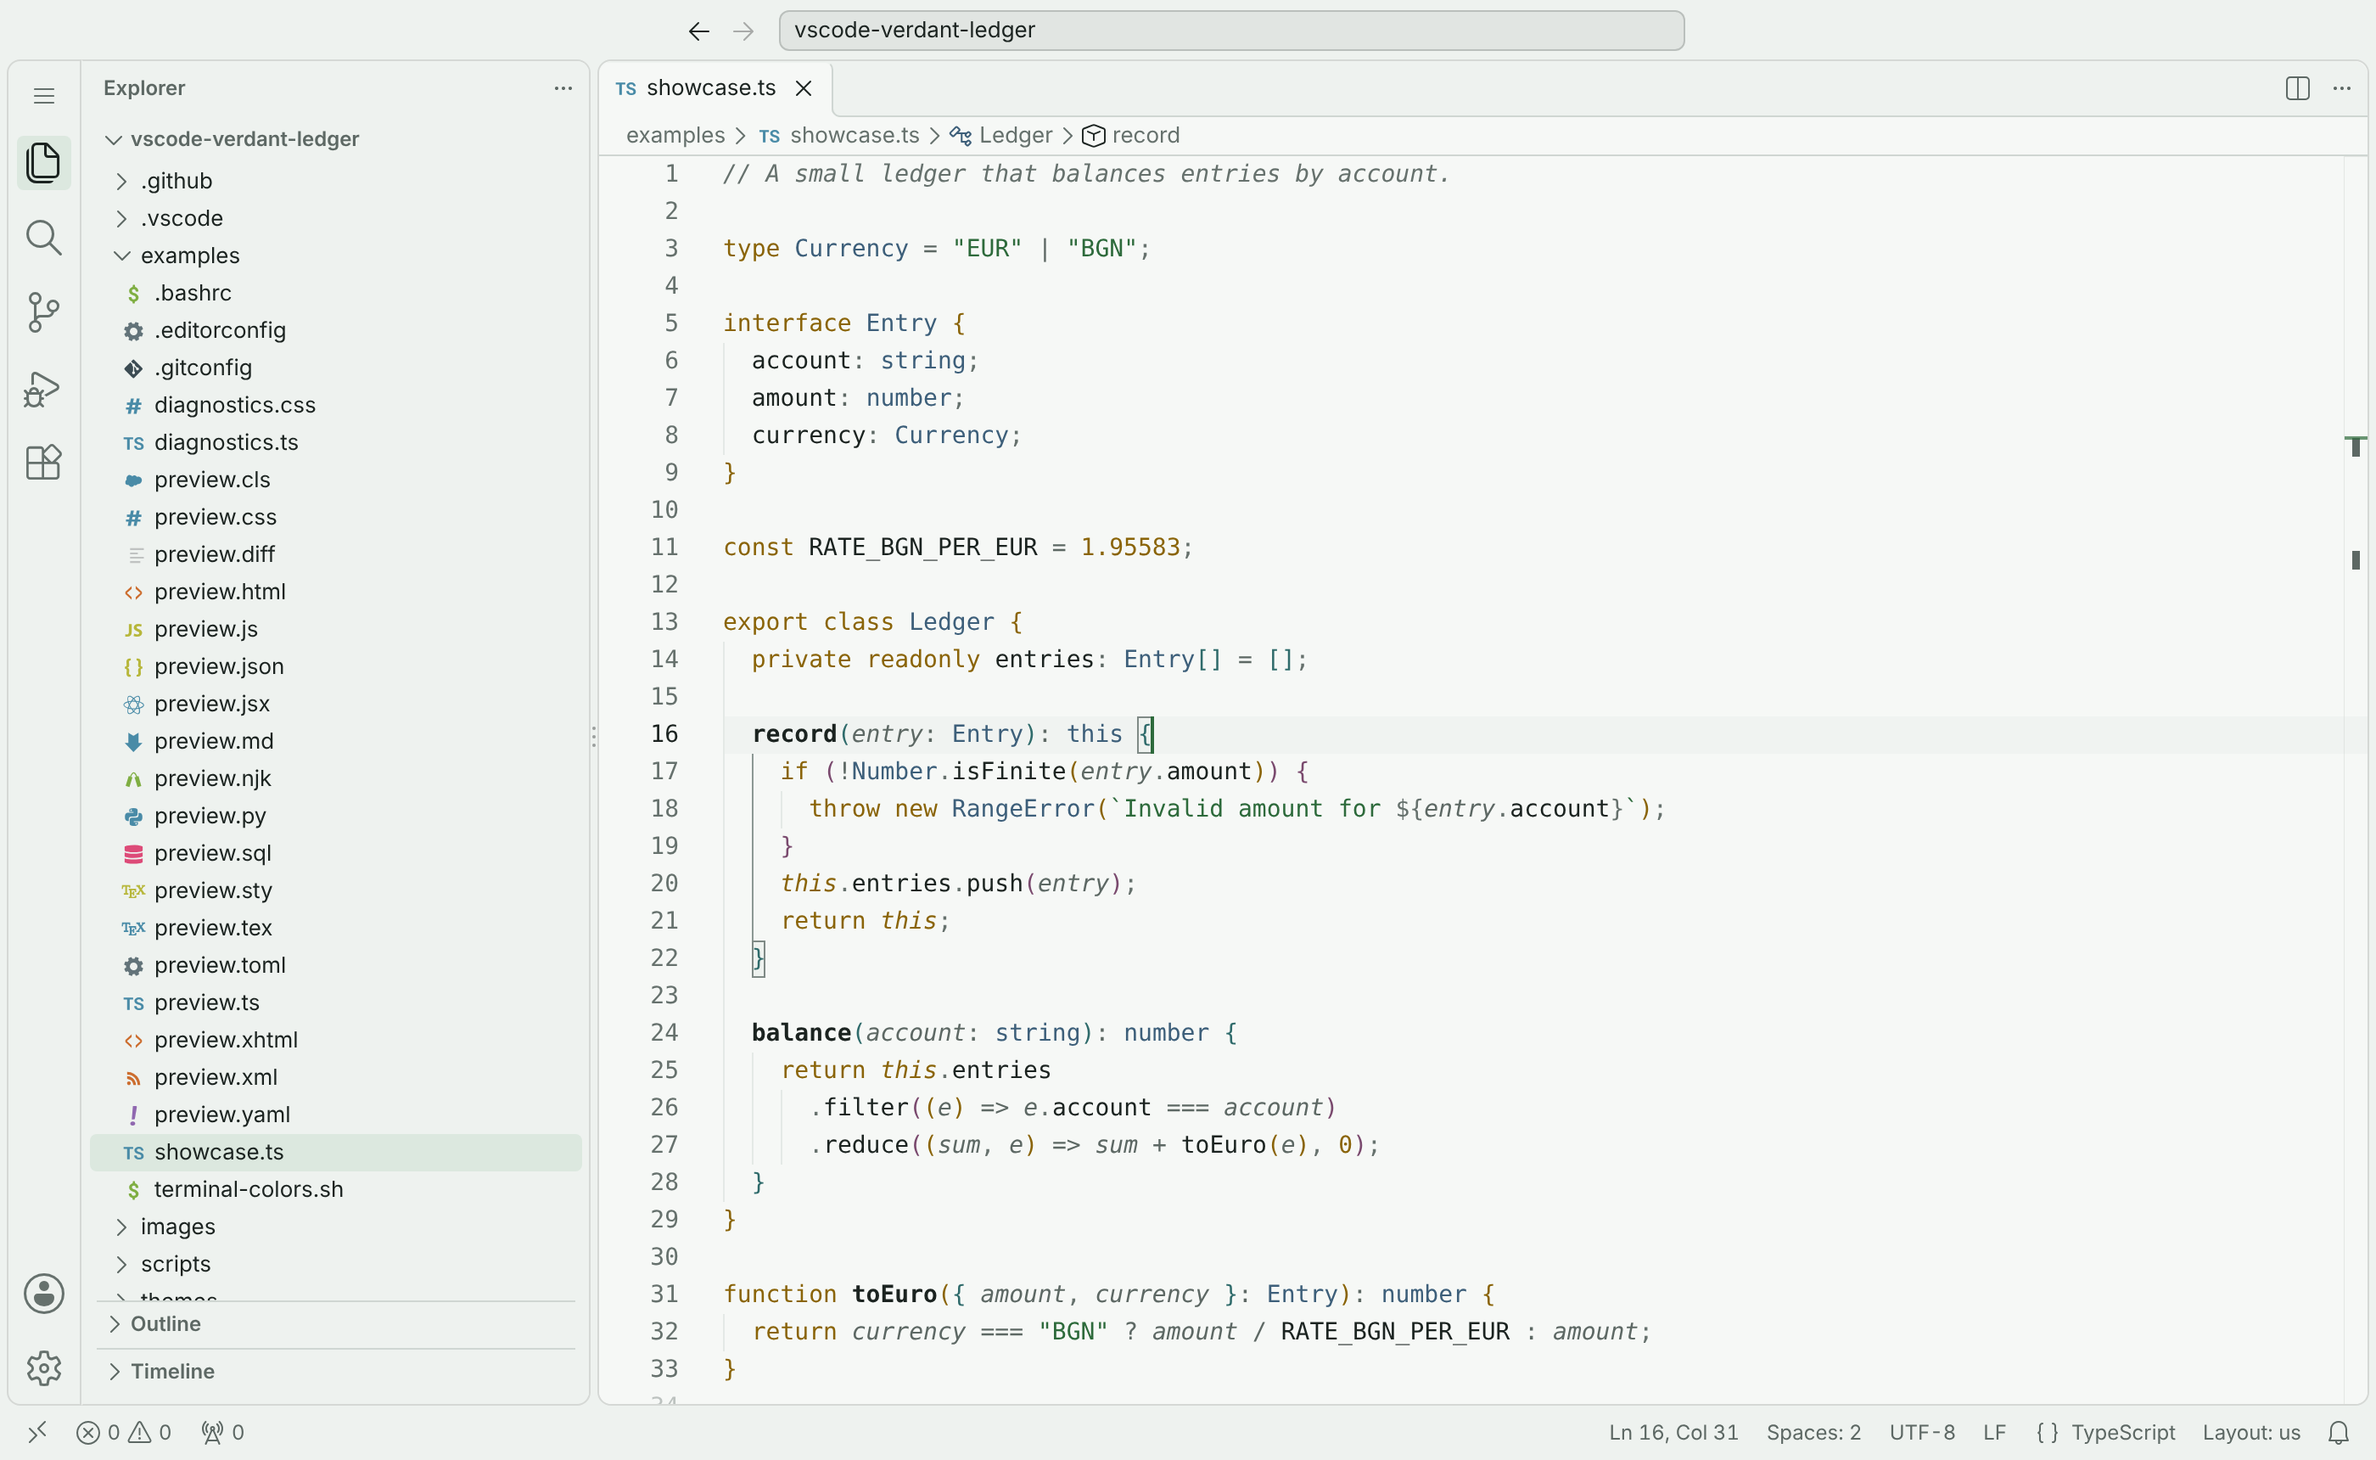
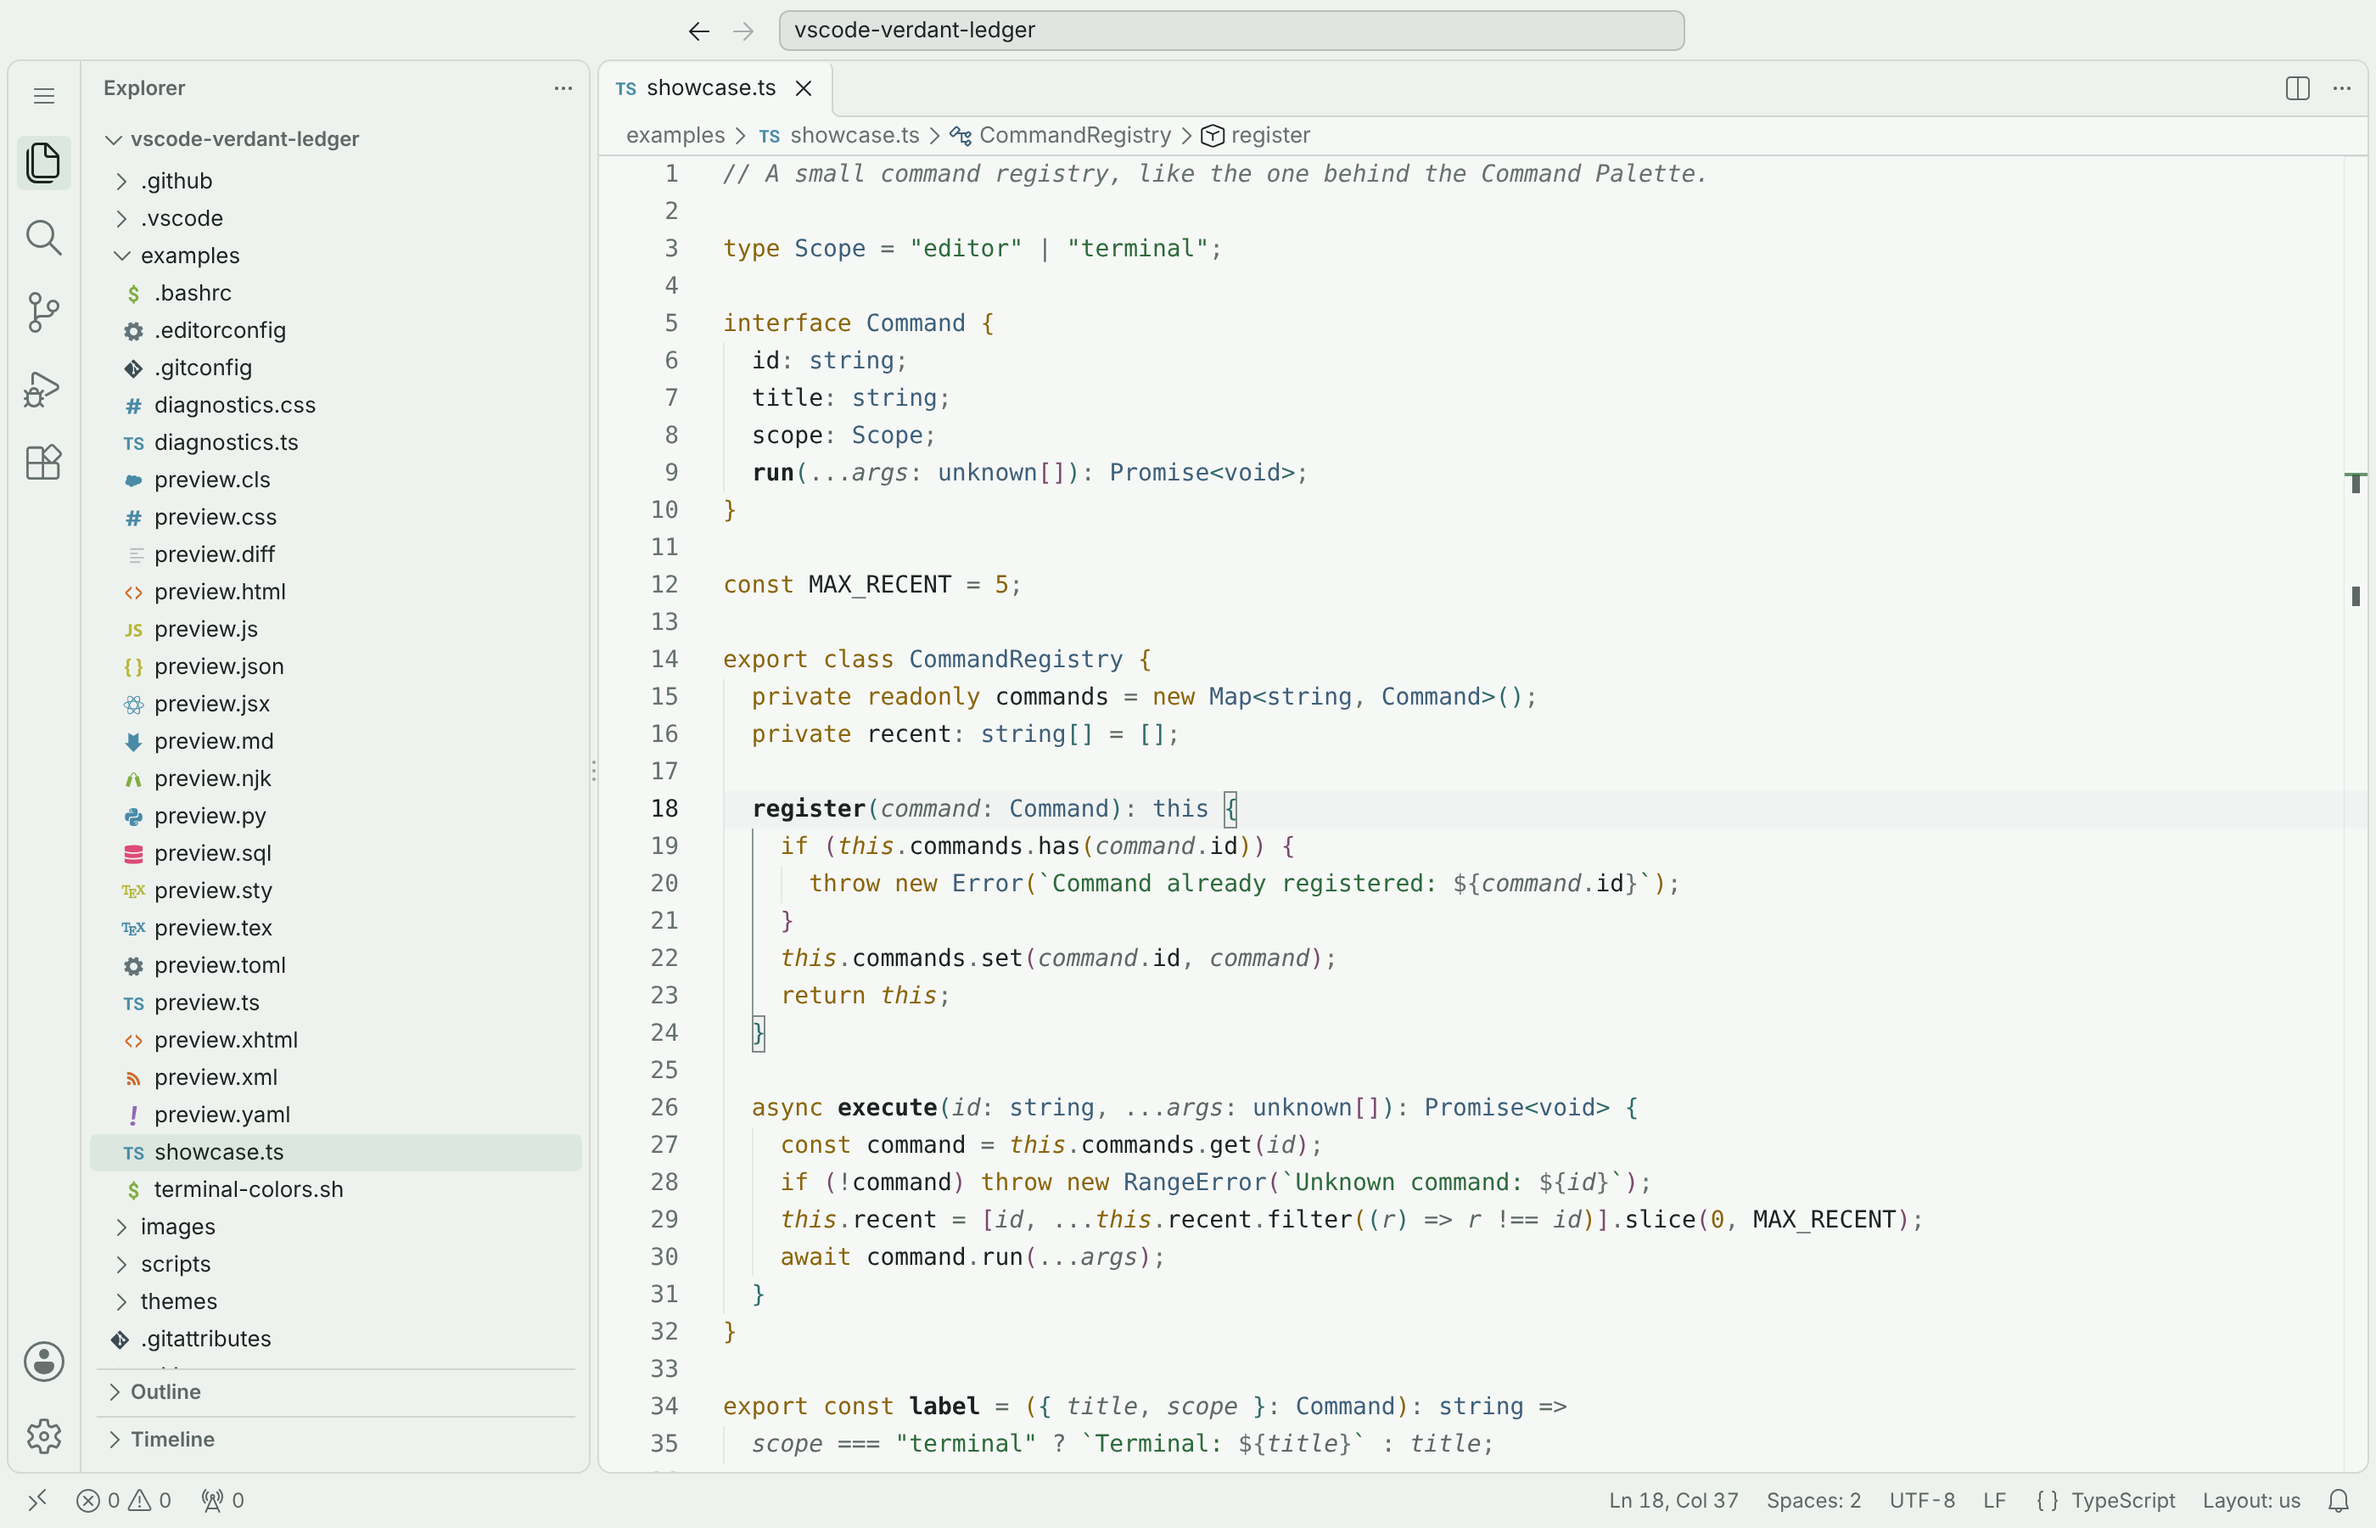
Replace the currency showcase with a command registry
The TypeScript showcase converted Bulgarian lev to euro, which no longer
makes sense now that Bulgaria uses only the euro. It now shows a small
command registry like the one behind VS Code's Command Palette, which
still exercises types, interfaces, classes, declarations, parameters,
`this`, strings, template literals, numbers and arrow functions. The
Marketplace screenshot is retaken with the new example.

Claude-Session: https://claude.ai/code/session_01RFtt1YfSdwWUab5bk21c4Z

diff --git a/examples/showcase.ts b/examples/showcase.ts
@@ -1,33 +1,35 @@
-// A small ledger that balances entries by account.
+// A small command registry, like the one behind the Command Palette.
 
-type Currency = "EUR" | "BGN";
+type Scope = "editor" | "terminal";
 
-interface Entry {
-  account: string;
-  amount: number;
-  currency: Currency;
+interface Command {
+  id: string;
+  title: string;
+  scope: Scope;
+  run(...args: unknown[]): Promise<void>;
 }
 
-const RATE_BGN_PER_EUR = 1.95583;
+const MAX_RECENT = 5;
 
-export class Ledger {
-  private readonly entries: Entry[] = [];
+export class CommandRegistry {
+  private readonly commands = new Map<string, Command>();
+  private recent: string[] = [];
 
-  record(entry: Entry): this {
-    if (!Number.isFinite(entry.amount)) {
-      throw new RangeError(`Invalid amount for ${entry.account}`);
+  register(command: Command): this {
+    if (this.commands.has(command.id)) {
+      throw new Error(`Command already registered: ${command.id}`);
     }
-    this.entries.push(entry);
+    this.commands.set(command.id, command);
     return this;
   }
 
-  balance(account: string): number {
-    return this.entries
-      .filter((e) => e.account === account)
-      .reduce((sum, e) => sum + toEuro(e), 0);
+  async execute(id: string, ...args: unknown[]): Promise<void> {
+    const command = this.commands.get(id);
+    if (!command) throw new RangeError(`Unknown command: ${id}`);
+    this.recent = [id, ...this.recent.filter((r) => r !== id)].slice(0, MAX_RECENT);
+    await command.run(...args);
   }
 }
 
-function toEuro({ amount, currency }: Entry): number {
-  return currency === "BGN" ? amount / RATE_BGN_PER_EUR : amount;
-}
+export const label = ({ title, scope }: Command): string =>
+  scope === "terminal" ? `Terminal: ${title}` : title;
